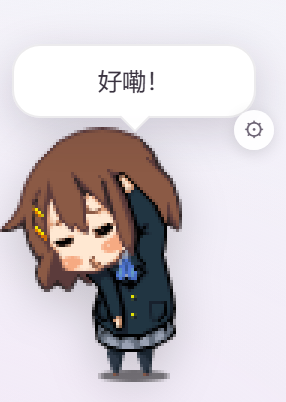
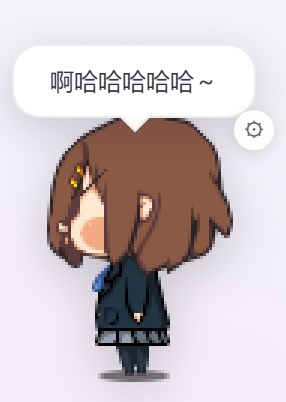
fix: 䌷围观站到 1.8 个身位外；台词改用原作日文

Changed region(s): [[0.0, 0.2687, 0.8392, 0.9552], [0.1678, 0.1493, 0.6713, 0.2388], [0.6993, 0.1791, 0.7552, 0.209]]

diff --git a/lib/client.js b/lib/client.js
@@ -132,10 +132,10 @@
 
 	const TEMPO = { yui: 1.25, mio: 0.9, ritsu: 0.7, tsumugi: 1.45, azusa: 1.05 };
 
-	// 彩蛋台词：䌷看到别人并肩时的感叹，以及开茶会前的一句（按设置的语言显示）
+	// 彩蛋台词：䌷看到别人并肩时的感叹（原文「女の子同士っていいな～って」），以及开茶会前的一句
 	const EGG_LINES = {
-		pair: { ja: "女の子同士っていいなって思うの", zh: "只是觉得女孩子们之间真是好呀" },
-		tea: { ja: "みなさん、お茶会をしましょうか", zh: "我们开个茶会吧" },
+		pair: { ja: "女の子同士っていいな～って", zh: "只是觉得女孩子们之间真是好呀" },
+		tea: { ja: "お茶会をしましょうか", zh: "我们开个茶会吧" },
 	};
 
 	const CARE_LINES = [
@@ -2264,27 +2264,36 @@
 						if (!asset) return;
 						engine.watchCooldownUntil = now + 90000;
 						say(pickLang(EGG_LINES.pair, current.lang), 4200);
-						// 挑离自己近的那一个凑过去，借用「追到为止」的跟随逻辑
+						// 围观站位：站到两人外侧、隔开约 1.8 个身位，而且从自己这一侧过去，
+						// 不从他们身上穿过去，也不贴着人家站。
 						const ids = [event.a, event.b].filter((id) => id !== member.id && PEERS.has(id));
 						if (!ids.length) return;
-						const near = ids.sort((left, right) => {
-							const a = PEERS.get(left);
-							const b = PEERS.get(right);
-							return Math.hypot(a.x - posRef.current.x, a.y - posRef.current.y)
-								- Math.hypot(b.x - posRef.current.x, b.y - posRef.current.y);
-						})[0];
-						const peer = PEERS.get(near);
-						const to = Core.planWalkTo(posRef.current.x, posRef.current.y, peer.x, peer.y);
-						if (!to) return;
-						engine.watching = true;
-						engine.followTarget = near;
-						engine.followDeadline = now + 9000;
+						const spots = ids.map((id) => PEERS.get(id));
+						const left = Math.min(...spots.map((spot) => spot.x));
+						const right = Math.max(...spots.map((spot) => spot.x));
+						const rowY = spots.reduce((sum, spot) => sum + spot.y, 0) / spots.length;
+						const actorSize = Math.round(CELL * current.scale);
+						const gap = Math.round(actorSize * 1.8);
+						const limit = Core.boundsFor(window.innerWidth, window.innerHeight, actorSize);
+						const leftSpot = left - gap;
+						const rightSpot = right + gap;
+						let watchX = posRef.current.x <= (left + right) / 2 ? leftSpot : rightSpot;
+						if (watchX < 2 || watchX > limit.maxX) {
+							watchX = watchX === leftSpot ? rightSpot : leftSpot;
+						}
+						const watch = {
+							x: Core.clamp(watchX, 2, limit.maxX),
+							y: Core.clamp(rowY, 2, limit.maxY),
+						};
+						const to = Core.planWalkTo(posRef.current.x, posRef.current.y, watch.x, watch.y);
+						if (!to || to.distance < 8) return;
+						engine.followTarget = null;
 						engine.mode = "walk";
 						engine.walkElapsed = 0;
 						engine.walkPlan = {
 							dx: to.dx,
 							dy: to.dy,
-							duration: Math.max(800, Math.min(6000, (to.distance / Math.max(30, current.speed * current.scale)) * 1000)),
+							duration: Math.max(200, Math.min(6000, (to.distance / Math.max(30, current.speed * current.scale)) * 1000)),
 						};
 						engine.dir = to.dx < 0 ? -1 : 1;
 						engine.clip = "walk";
@@ -2582,7 +2591,6 @@
 								if (!peer || now > engine.followDeadline) {
 									if (engine.followTarget) FREEZE.delete(engine.followTarget);
 									engine.followTarget = null;
-									engine.watching = false;
 									arrived = true;
 								} else {
 									const dy = peer.y - posRef.current.y;
@@ -2602,15 +2610,12 @@
 										engine.followTarget = null;
 										arrived = true;
 										// 追上 = 并肩站住：记一次「成对」，两人一起停 4 秒
-										if (!engine.watching) {
-											EGG.pair(member.id, partner, now, {
-												x: (posRef.current.x + peer.x) / 2,
-												y: (posRef.current.y + peer.y) / 2,
-											});
-											engine.pairUntil = now + 4000;
-											FREEZE.set(partner, now + 4000);
-										}
-										engine.watching = false;
+										EGG.pair(member.id, partner, now, {
+											x: (posRef.current.x + peer.x) / 2,
+											y: (posRef.current.y + peer.y) / 2,
+										});
+										engine.pairUntil = now + 4000;
+										FREEZE.set(partner, now + 4000);
 									}
 									if (!arrived) engine.walkPlan = plan;
 								}

diff --git a/src/client.js b/src/client.js
@@ -1679,27 +1679,36 @@
 						if (!asset) return;
 						engine.watchCooldownUntil = now + 90000;
 						say(pickLang(EGG_LINES.pair, current.lang), 4200);
-						// 挑离自己近的那一个凑过去，借用「追到为止」的跟随逻辑
+						// 围观站位：站到两人外侧、隔开约 1.8 个身位，而且从自己这一侧过去，
+						// 不从他们身上穿过去，也不贴着人家站。
 						const ids = [event.a, event.b].filter((id) => id !== member.id && PEERS.has(id));
 						if (!ids.length) return;
-						const near = ids.sort((left, right) => {
-							const a = PEERS.get(left);
-							const b = PEERS.get(right);
-							return Math.hypot(a.x - posRef.current.x, a.y - posRef.current.y)
-								- Math.hypot(b.x - posRef.current.x, b.y - posRef.current.y);
-						})[0];
-						const peer = PEERS.get(near);
-						const to = Core.planWalkTo(posRef.current.x, posRef.current.y, peer.x, peer.y);
-						if (!to) return;
-						engine.watching = true;
-						engine.followTarget = near;
-						engine.followDeadline = now + 9000;
+						const spots = ids.map((id) => PEERS.get(id));
+						const left = Math.min(...spots.map((spot) => spot.x));
+						const right = Math.max(...spots.map((spot) => spot.x));
+						const rowY = spots.reduce((sum, spot) => sum + spot.y, 0) / spots.length;
+						const actorSize = Math.round(CELL * current.scale);
+						const gap = Math.round(actorSize * 1.8);
+						const limit = Core.boundsFor(window.innerWidth, window.innerHeight, actorSize);
+						const leftSpot = left - gap;
+						const rightSpot = right + gap;
+						let watchX = posRef.current.x <= (left + right) / 2 ? leftSpot : rightSpot;
+						if (watchX < 2 || watchX > limit.maxX) {
+							watchX = watchX === leftSpot ? rightSpot : leftSpot;
+						}
+						const watch = {
+							x: Core.clamp(watchX, 2, limit.maxX),
+							y: Core.clamp(rowY, 2, limit.maxY),
+						};
+						const to = Core.planWalkTo(posRef.current.x, posRef.current.y, watch.x, watch.y);
+						if (!to || to.distance < 8) return;
+						engine.followTarget = null;
 						engine.mode = "walk";
 						engine.walkElapsed = 0;
 						engine.walkPlan = {
 							dx: to.dx,
 							dy: to.dy,
-							duration: Math.max(800, Math.min(6000, (to.distance / Math.max(30, current.speed * current.scale)) * 1000)),
+							duration: Math.max(200, Math.min(6000, (to.distance / Math.max(30, current.speed * current.scale)) * 1000)),
 						};
 						engine.dir = to.dx < 0 ? -1 : 1;
 						engine.clip = "walk";
@@ -1997,7 +2006,6 @@
 								if (!peer || now > engine.followDeadline) {
 									if (engine.followTarget) FREEZE.delete(engine.followTarget);
 									engine.followTarget = null;
-									engine.watching = false;
 									arrived = true;
 								} else {
 									const dy = peer.y - posRef.current.y;
@@ -2017,15 +2025,12 @@
 										engine.followTarget = null;
 										arrived = true;
 										// 追上 = 并肩站住：记一次「成对」，两人一起停 4 秒
-										if (!engine.watching) {
-											EGG.pair(member.id, partner, now, {
-												x: (posRef.current.x + peer.x) / 2,
-												y: (posRef.current.y + peer.y) / 2,
-											});
-											engine.pairUntil = now + 4000;
-											FREEZE.set(partner, now + 4000);
-										}
-										engine.watching = false;
+										EGG.pair(member.id, partner, now, {
+											x: (posRef.current.x + peer.x) / 2,
+											y: (posRef.current.y + peer.y) / 2,
+										});
+										engine.pairUntil = now + 4000;
+										FREEZE.set(partner, now + 4000);
 									}
 									if (!arrived) engine.walkPlan = plan;
 								}
